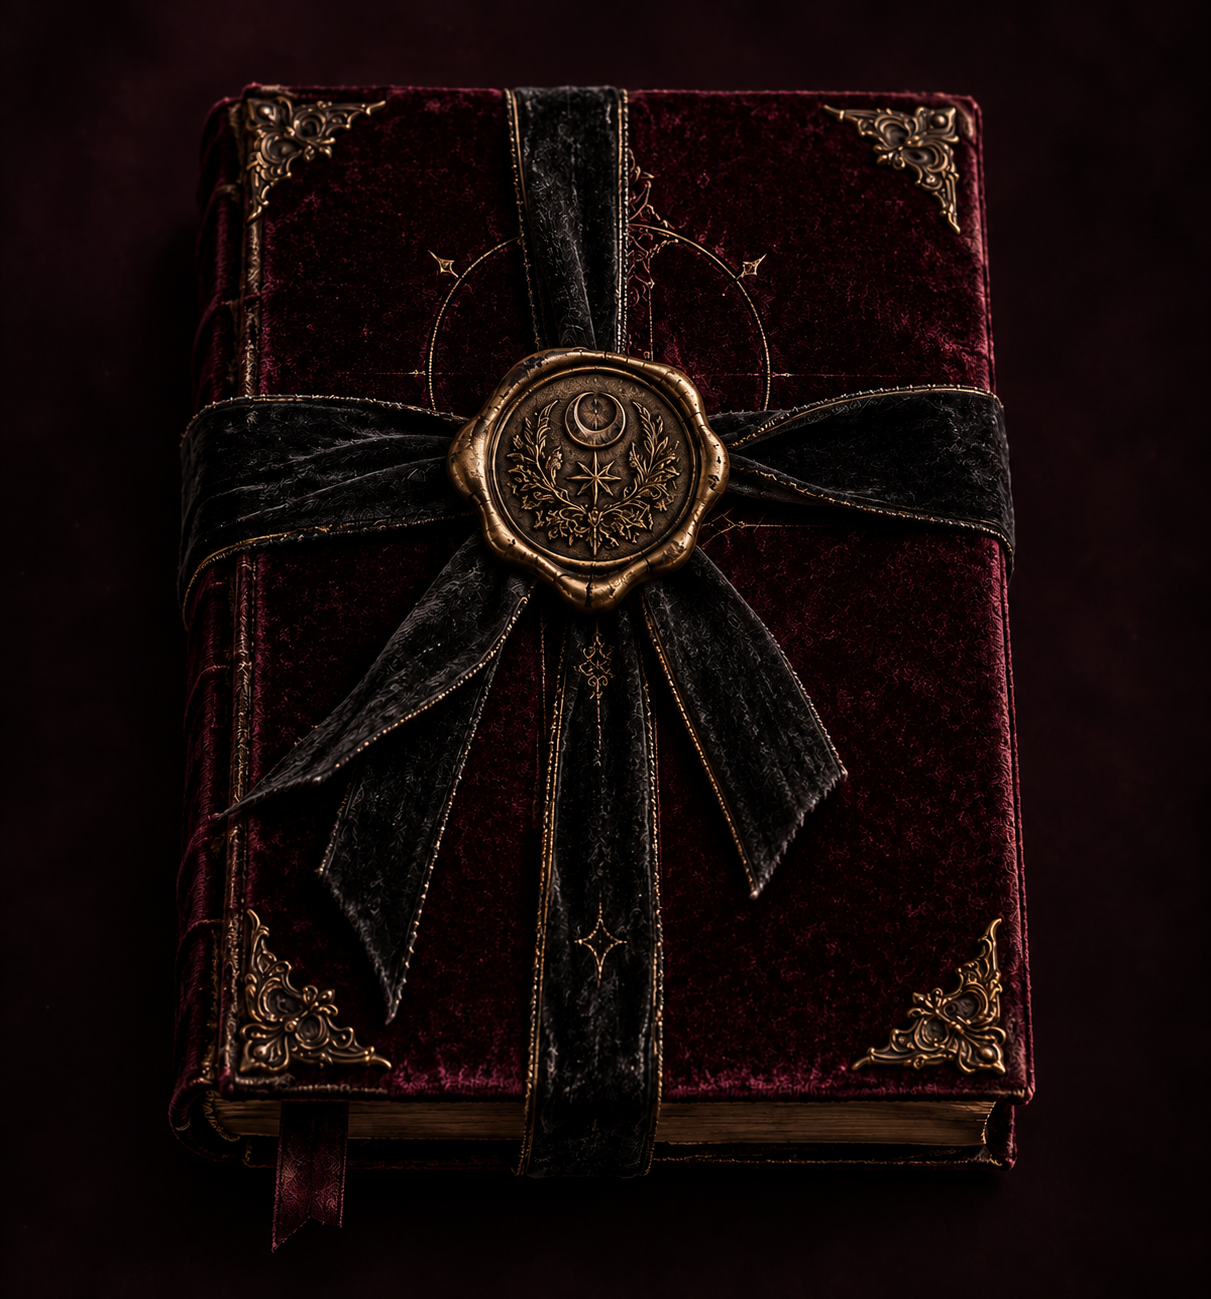
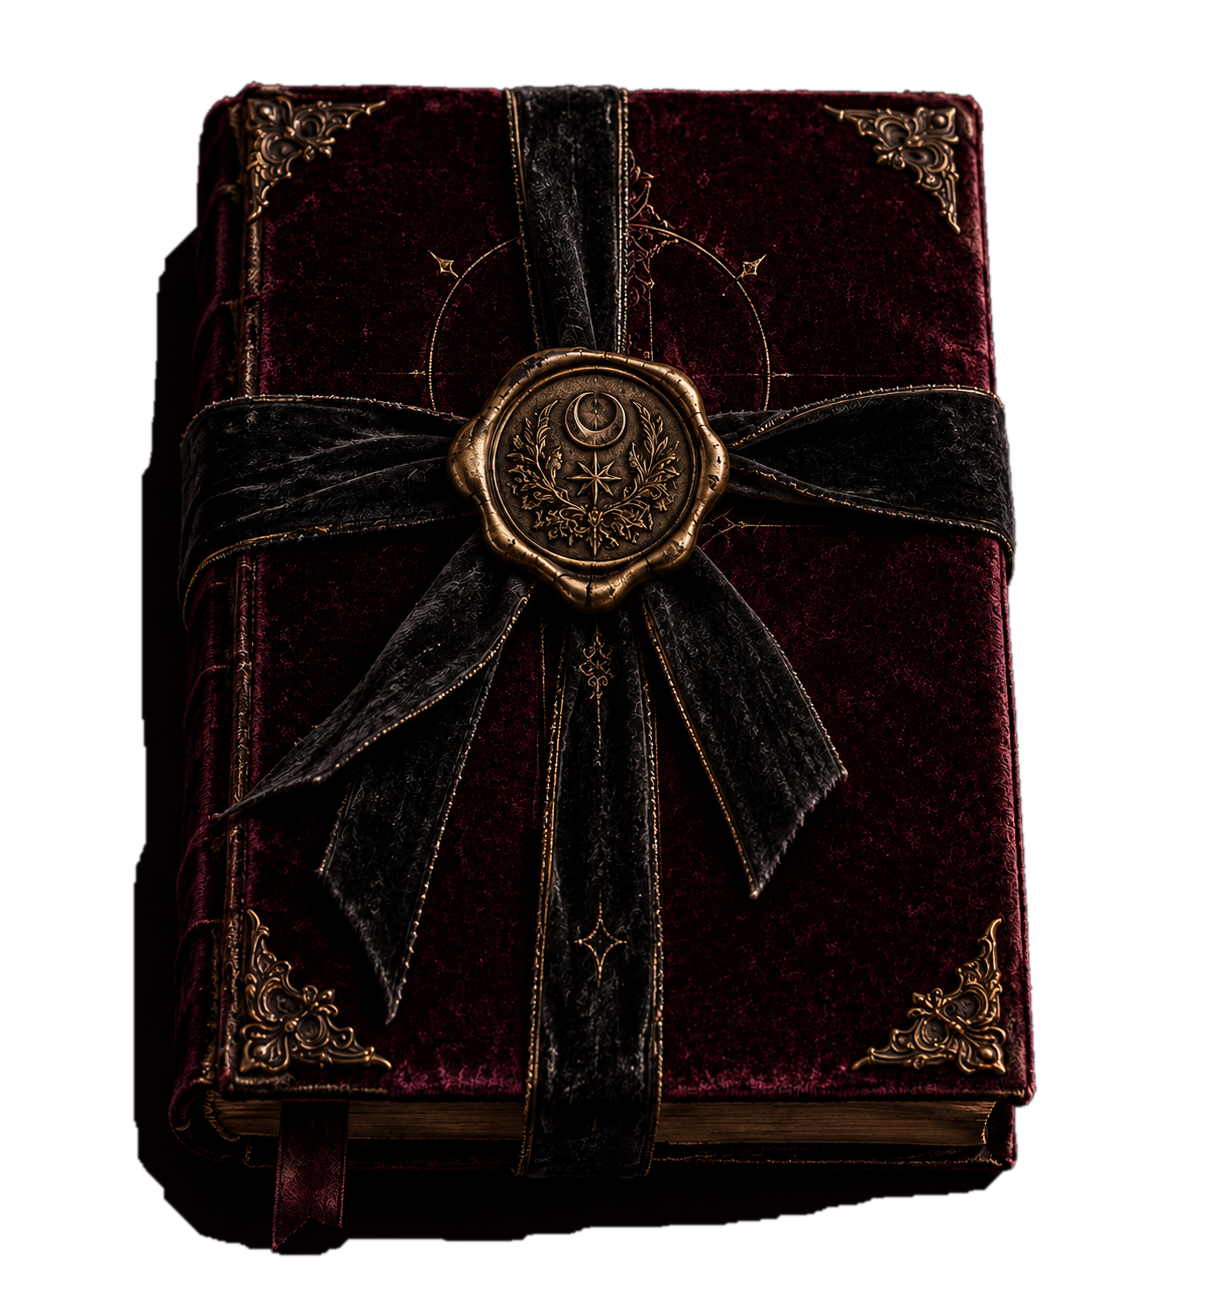
Add files via upload
V3.5

diff --git a/style.css b/style.css
@@ -829,3 +829,114 @@ body::after {
     text-shadow: 0 2px 6px rgba(0,0,0,.95);
   }
 }
+
+
+/* =========================================================
+   V3.5 — transparent book + sparkfield atmosphere
+   No redesign to the book, dossier, CTA, or reveal.
+   ========================================================= */
+
+/* Kill the old blurred corner lamps entirely. */
+.ambient,
+.ambient-one,
+.ambient-two {
+  display: none !important;
+}
+
+/* Deep velvet-black/plum base, without the big radial light blobs. */
+body {
+  background:
+    linear-gradient(180deg, #120a11 0%, #0c080d 46%, #070507 100%) !important;
+}
+
+/* Keep the subtle physical texture, but do not create corner lighting. */
+body::after {
+  content: "";
+  position: fixed;
+  inset: 0;
+  pointer-events: none;
+  opacity: .14;
+  background:
+    repeating-linear-gradient(
+      0deg,
+      rgba(255,255,255,.012) 0 1px,
+      transparent 1px 4px
+    );
+  mix-blend-mode: screen;
+}
+
+/* Fine star-dust/sparks instead of glowing corner blobs. */
+.stars {
+  position: fixed;
+  inset: 0;
+  pointer-events: none;
+  opacity: .72 !important;
+  filter: none !important;
+  mask-image: none !important;
+  -webkit-mask-image: none !important;
+
+  background-image:
+    /* top-left cluster */
+    radial-gradient(circle at 2% 5%, rgba(238,196,126,.88) 0 1px, transparent 1.6px),
+    radial-gradient(circle at 5% 11%, rgba(191,85,132,.70) 0 1.2px, transparent 1.9px),
+    radial-gradient(circle at 8% 3%, rgba(244,223,179,.74) 0 .9px, transparent 1.5px),
+    radial-gradient(circle at 11% 15%, rgba(222,168,101,.66) 0 1px, transparent 1.6px),
+    radial-gradient(circle at 15% 7%, rgba(184,72,120,.58) 0 1px, transparent 1.7px),
+    radial-gradient(circle at 18% 18%, rgba(238,196,126,.56) 0 .8px, transparent 1.4px),
+    radial-gradient(circle at 6% 23%, rgba(237,216,180,.62) 0 .8px, transparent 1.4px),
+    radial-gradient(circle at 22% 9%, rgba(206,104,145,.48) 0 1px, transparent 1.6px),
+
+    /* top-right cluster */
+    radial-gradient(circle at 98% 4%, rgba(238,196,126,.88) 0 1px, transparent 1.6px),
+    radial-gradient(circle at 94% 12%, rgba(191,85,132,.70) 0 1.2px, transparent 1.9px),
+    radial-gradient(circle at 91% 3%, rgba(244,223,179,.74) 0 .9px, transparent 1.5px),
+    radial-gradient(circle at 88% 16%, rgba(222,168,101,.66) 0 1px, transparent 1.6px),
+    radial-gradient(circle at 84% 8%, rgba(184,72,120,.58) 0 1px, transparent 1.7px),
+    radial-gradient(circle at 81% 20%, rgba(238,196,126,.56) 0 .8px, transparent 1.4px),
+    radial-gradient(circle at 95% 24%, rgba(237,216,180,.62) 0 .8px, transparent 1.4px),
+    radial-gradient(circle at 78% 10%, rgba(206,104,145,.48) 0 1px, transparent 1.6px),
+
+    /* lower-left dust */
+    radial-gradient(circle at 3% 92%, rgba(238,196,126,.64) 0 1px, transparent 1.6px),
+    radial-gradient(circle at 8% 83%, rgba(191,85,132,.48) 0 1px, transparent 1.7px),
+    radial-gradient(circle at 14% 96%, rgba(244,223,179,.52) 0 .8px, transparent 1.4px),
+    radial-gradient(circle at 18% 86%, rgba(222,168,101,.44) 0 .8px, transparent 1.4px),
+
+    /* lower-right dust */
+    radial-gradient(circle at 97% 93%, rgba(238,196,126,.64) 0 1px, transparent 1.6px),
+    radial-gradient(circle at 92% 84%, rgba(191,85,132,.48) 0 1px, transparent 1.7px),
+    radial-gradient(circle at 86% 96%, rgba(244,223,179,.52) 0 .8px, transparent 1.4px),
+    radial-gradient(circle at 82% 87%, rgba(222,168,101,.44) 0 .8px, transparent 1.4px),
+
+    /* all-over faint dust */
+    radial-gradient(circle, rgba(237,210,161,.32) 0 .7px, transparent 1.1px),
+    radial-gradient(circle, rgba(162,72,111,.22) 0 .7px, transparent 1.2px),
+    radial-gradient(circle, rgba(255,245,226,.18) 0 .6px, transparent 1px);
+
+  background-size:
+    auto,auto,auto,auto,auto,auto,auto,auto,
+    auto,auto,auto,auto,auto,auto,auto,auto,
+    auto,auto,auto,auto,
+    auto,auto,auto,auto,
+    137px 137px,
+    211px 211px,
+    89px 89px;
+
+  background-position:
+    0 0,0 0,0 0,0 0,0 0,0 0,0 0,0 0,
+    0 0,0 0,0 0,0 0,0 0,0 0,0 0,0 0,
+    0 0,0 0,0 0,0 0,
+    0 0,0 0,0 0,0 0,
+    11px 17px,
+    53px 71px,
+    27px 39px;
+}
+
+/* The PNG itself now has alpha, so make absolutely sure nothing behind it
+   reintroduces a rectangular plate. */
+.artifact-image,
+.forbidden-book,
+.artifact-wrap img {
+  background: transparent !important;
+  box-shadow: none;
+}

diff --git a/index.html b/index.html
@@ -5,7 +5,7 @@
   <meta name="viewport" content="width=device-width,initial-scale=1">
   <meta name="theme-color" content="#0c070c">
   <title>Blind Date With a Book</title>
-  <link rel="stylesheet" href="style.css?v=3.4">
+  <link rel="stylesheet" href="style.css?v=3.5">
 </head>
 <body>
   <div class="ambient ambient-one" aria-hidden="true"></div>
@@ -25,7 +25,7 @@
         <span class="parcel-shadow" aria-hidden="true"></span>
 
         <span class="artifact-wrap">
-          <img class="artifact-image" src="forbidden-book.png" alt="A burgundy velvet-bound gothic book sealed with black ribbon and an antique celestial seal">
+          <img class="artifact-image" src="forbidden-book.png?v=3.5" alt="A burgundy velvet-bound gothic book sealed with black ribbon and an antique celestial seal">
 
           <span class="gift-tag">
             <small>BLIND DATE No. 01</small>
